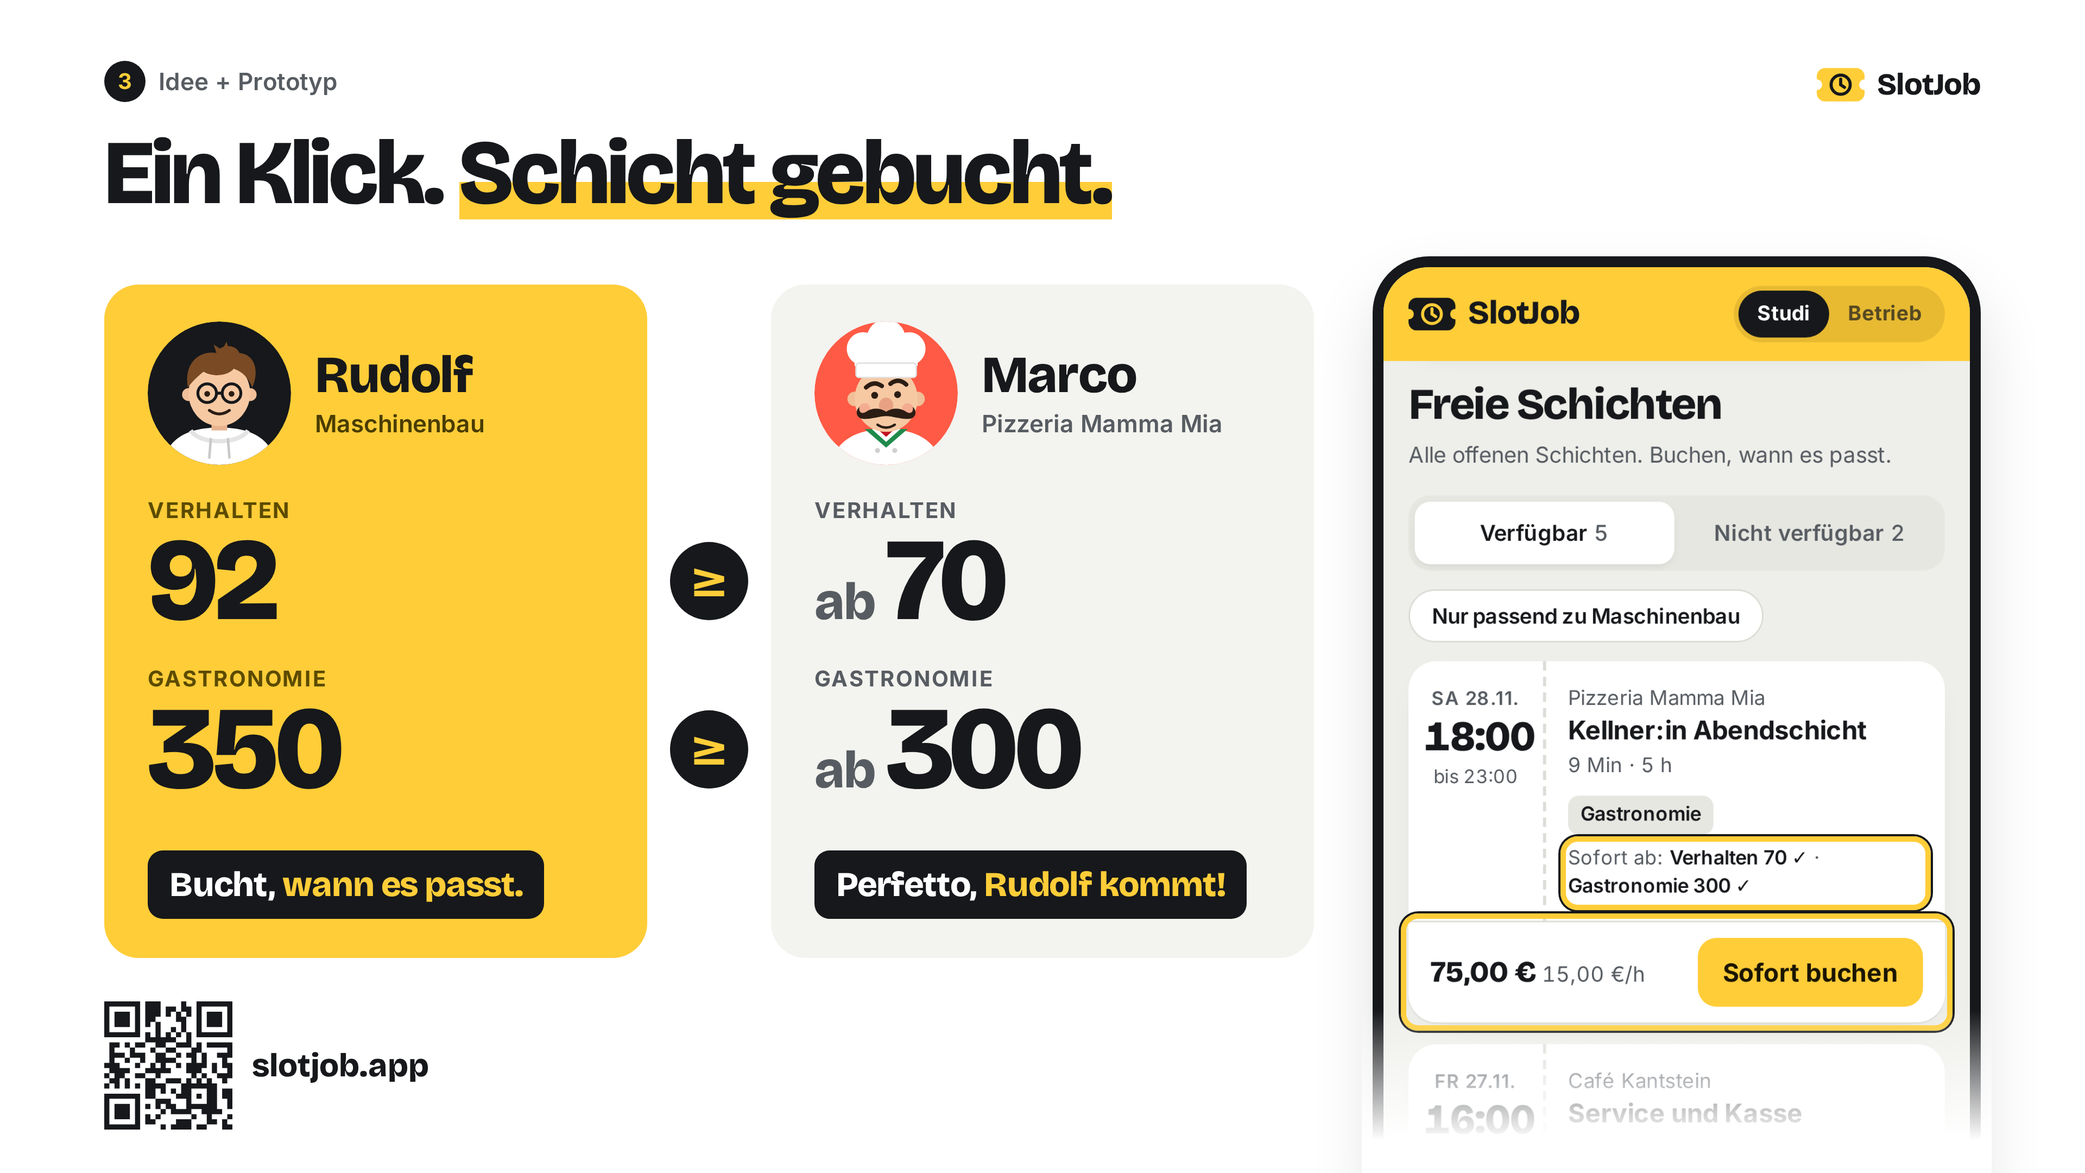
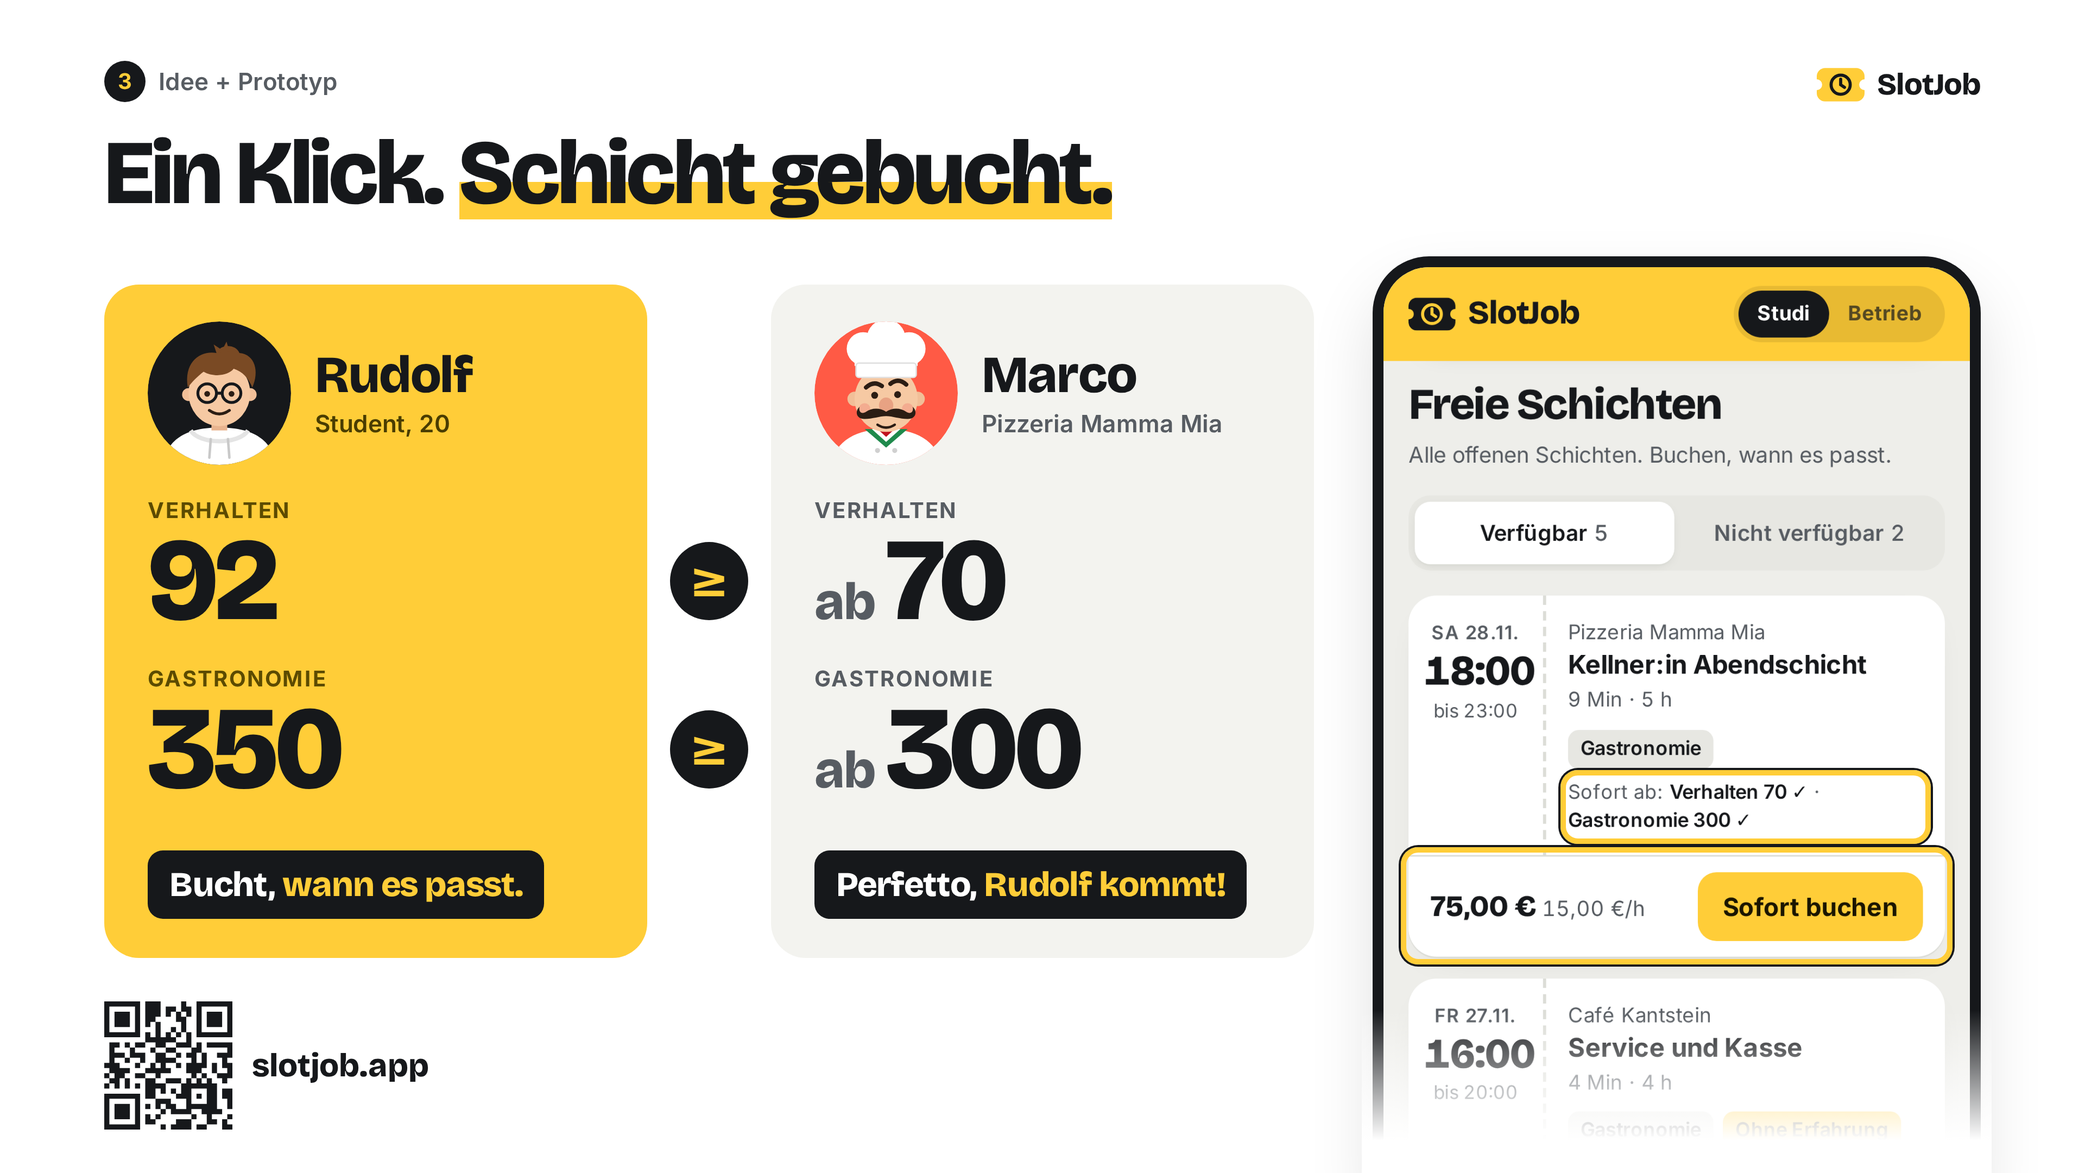
No study field: no onboarding question, no slot label, no filter, no field in the employer form
Filip 27.11.: the study field is removed entirely. "Ich studiere" leads straight to the shifts. Docs, plan and the slide 3 checklist say so; slide 3 shows Rudolf as "Student, 20" and the phone without the filter chip. Demo key slotjob-v9.

Claude-Session: https://claude.ai/code/session_01TtYjNNzjFNGfjoyzmP8vJg

Changed region(s): [[0.6562, 0.4963, 0.9375, 0.9616], [0.1562, 0.3412, 0.2188, 0.3722]]

diff --git a/site/index.html b/site/index.html
@@ -221,9 +221,8 @@ input[type=file]{font-size:13px;max-width:100%}
 </div>
 <script>
 {
-const KEY='slotjob-v8';
+const KEY='slotjob-v9';
 const DAYS=['Mo','Di','Mi','Do','Fr','Sa','So'];
-const FIELDS=['Maschinenbau','Informatik','BWL','Lehramt','Umweltwissenschaften','Anderes'];
 const LIMIT=603;
 const AREAS=[['gastro','Gastronomie'],['handel','Handel und Lager'],['events','Events und Aufbau'],['campus','Campus'],['buero','Büro und IT']];
 const AN=k=>(AREAS.find(a=>a[0]===k)||AREAS[0])[1];
@@ -233,7 +232,7 @@ const RULES={v:[[['Start','80'],['Pünktlich','+2'],['Spontan','+5'],['Krank','0
  q:[[['Arbeitszeugnis','+100'],['Schicht','+10']],[['5 Sterne','+10'],['1–2 Sterne','−10']]]};
 const NOTE={v:'Minuspunkte halbieren sich nach 3 Monaten.',q:'Gleiche Qualifikation zählt einmal. Schichten zählen bis +400.'};
 const rulesBox=t=>`<div class="rules">${RULES[t].map(col=>`<div>${col.map(([l,v])=>`<p><span>${l}</span><b>${v}</b></p>`).join('')}</div>`).join('')}</div><p class="small" style="margin:6px 0 0">${NOTE[t]}</p>`;
-const fresh=()=>({role:null,onb:0,field:'Maschinenbau',noExp:true,tab:'slots',filter:'ok',open:null,roles:[],instant:[],rated:{},cert:null,certRole:'Kellner',certs:{},biz:'Pizzeria Mamma Mia',etab:'mine',
+const fresh=()=>({role:null,onb:0,tab:'slots',filter:'ok',open:null,roles:[],instant:[],rated:{},cert:null,certRole:'Kellner',certs:{},biz:'Pizzeria Mamma Mia',etab:'mine',
  ev:[
   {a:'v',t:'Start',p:80},
   {a:'v',t:'16 × pünktlich',p:32},
@@ -246,13 +245,13 @@ const fresh=()=>({role:null,onb:0,field:'Maschinenbau',noExp:true,tab:'slots',fi
   {a:'handel',t:'2 × 5 Sterne',p:20}
  ],
  slots:[
-  {id:1,emp:'Café Kantstein',title:'Service und Kasse',day:'Fr',date:'27.11.',s:'16:00',e:'20:00',pay:14.5,dist:'4 Min',noExp:true,fields:[],area:'gastro',min:0,minV:70},
-  {id:2,emp:'Pizzeria Mamma Mia',title:'Kellner:in Abendschicht',day:'Sa',date:'28.11.',s:'18:00',e:'23:00',pay:15,dist:'9 Min',noExp:false,fields:[],area:'gastro',min:300,minV:70,eid:102},
-  {id:3,emp:'Getränkemarkt Fass & Co',title:'Lager und Leergut',day:'Sa',date:'28.11.',s:'09:00',e:'13:00',pay:14,dist:'11 Min',noExp:true,fields:[],area:'handel',min:0,minV:70},
-  {id:4,emp:'Lehrstuhl Konstruktion (HiWi)',title:'CAD-Modelle aufbereiten',day:'Mo',date:'30.11.',s:'10:00',e:'14:00',pay:14.2,dist:'Campus',noExp:false,fields:['Maschinenbau'],area:'campus',min:0,minV:80},
-  {id:5,emp:'IT-Service Rechenzentrum',title:'Helpdesk für Erstis',day:'Di',date:'01.12.',s:'12:00',e:'16:00',pay:14.8,dist:'Campus',noExp:false,fields:['Informatik'],area:'buero',min:100,minV:70},
-  {id:6,emp:'Eventhalle Nordufer',title:'Aufbau Konzert',day:'Mi',date:'02.12.',s:'14:00',e:'19:00',pay:15.5,dist:'15 Min',noExp:true,fields:[],area:'events',min:0,minV:95},
-  {id:7,emp:'Buchladen Seitenwind',title:'Inventur',day:'Do',date:'03.12.',s:'17:00',e:'21:00',pay:14,dist:'6 Min',noExp:true,fields:[],area:'handel',min:0,minV:70}
+  {id:1,emp:'Café Kantstein',title:'Service und Kasse',day:'Fr',date:'27.11.',s:'16:00',e:'20:00',pay:14.5,dist:'4 Min',noExp:true,area:'gastro',min:0,minV:70},
+  {id:2,emp:'Pizzeria Mamma Mia',title:'Kellner:in Abendschicht',day:'Sa',date:'28.11.',s:'18:00',e:'23:00',pay:15,dist:'9 Min',noExp:false,area:'gastro',min:300,minV:70,eid:102},
+  {id:3,emp:'Getränkemarkt Fass & Co',title:'Lager und Leergut',day:'Sa',date:'28.11.',s:'09:00',e:'13:00',pay:14,dist:'11 Min',noExp:true,area:'handel',min:0,minV:70},
+  {id:4,emp:'Lehrstuhl Konstruktion (HiWi)',title:'CAD-Modelle aufbereiten',day:'Mo',date:'30.11.',s:'10:00',e:'14:00',pay:14.2,dist:'Campus',noExp:false,area:'campus',min:0,minV:80},
+  {id:5,emp:'IT-Service Rechenzentrum',title:'Helpdesk für Erstis',day:'Di',date:'01.12.',s:'12:00',e:'16:00',pay:14.8,dist:'Campus',noExp:false,area:'buero',min:100,minV:70},
+  {id:6,emp:'Eventhalle Nordufer',title:'Aufbau Konzert',day:'Mi',date:'02.12.',s:'14:00',e:'19:00',pay:15.5,dist:'15 Min',noExp:true,area:'events',min:0,minV:95},
+  {id:7,emp:'Buchladen Seitenwind',title:'Inventur',day:'Do',date:'03.12.',s:'17:00',e:'21:00',pay:14,dist:'6 Min',noExp:true,area:'handel',min:0,minV:70}
  ],
  shifts:[
   {id:'a1',emp:'Café Kantstein',title:'Frühstücksservice',day:'So',date:'29.11.',s:'09:00',e:'13:00',pay:14.5,status:'Gebucht'},
@@ -310,10 +309,6 @@ function onboarding(){
   else if(S.role==='emp') body=`<div class="big">Dein Betrieb</div><p class="sub">So erscheinst du bei den Studis.</p>
    <label for="biz">Name des Betriebs</label><input id="biz" type="text" value="${esc(S.biz)}"><div class="spacer"></div>
    <button class="btn wide" data-act="finish">Los geht's</button>`;
-  else if(st===1) body=`<div class="big">Was studierst du?</div><p class="sub">Damit zeigen wir dir auch Slots, die zu deinem Fach passen.</p>
-   <label for="field">Studiengang</label><select id="field">${FIELDS.map(f=>`<option ${f===S.field?'selected':''}>${f}</option>`).join('')}</select>
-   <label class="check"><input id="noexp" type="checkbox" ${S.noExp?'checked':''}> Ich habe noch keine Joberfahrung</label><div class="spacer"></div>
-   <button class="btn wide" data-act="finish">Schichten zeigen</button>`;
   return `<div class="main"><div class="onb">${st===0?'':bar}${body}${st>0?'<button class="link" data-act="back">Zurück</button>':''}</div></div>`;
 }
 
@@ -327,7 +322,7 @@ function why(x){
 function slotCard(x){
   const w=why(x),booked=S.instant.includes(x.id),h=hrs(x.s,x.e);
   const btn=booked?`<button class="btn done" data-act="instant" data-v="${x.id}">Gebucht ✓</button>`:w?`<button class="btn" disabled>Nicht verfügbar</button>`:`<button class="btn" data-act="instant" data-v="${x.id}">Sofort buchen</button>`;
-  const tags=[`<span class="tag">${AN(x.area)}</span>`,x.fields.includes(S.field)?`<span class="tag">Passt zu ${esc(S.field)}</span>`:x.fields.length?`<span class="tag">${esc(x.fields.join(', '))}</span>`:'',x.min===0?'<span class="tag sun">Ohne Erfahrung</span>':''].join('');
+  const tags=[`<span class="tag">${AN(x.area)}</span>`,x.min===0?'<span class="tag sun">Ohne Erfahrung</span>':''].join('');
   const note=w?`<div class="why">${esc(w[0])}</div>${w[1]?`<div class="ways">${w[1]}</div>`:''}`:booked?'':`<div class="hint">Sofort ab: <span class="ok">Verhalten ${x.minV} ✓</span> · <span class="ok">${AN(x.area)} ${x.min} ✓</span></div>`;
   return `<article class="ticket"><div class="tk-top"><div class="when"><div class="d">${x.day} ${esc(x.date)}</div><div class="t">${esc(x.s)}</div><div class="e">bis ${esc(x.e)}</div></div>
    <div class="what"><div class="emp"><span>${esc(x.emp)}</span></div><h3>${esc(x.title)}</h3><div class="where">${esc(x.dist)} · ${String(h).replace('.',',')} h</div><div class="meta">${tags}</div>${note}</div></div>
@@ -348,13 +343,11 @@ const ROLES=['Kellner','Barista'];
 const FILTERS=[['ok','Verfügbar',x=>!why(x)],['no','Nicht verfügbar',x=>!!why(x)]];
 function slotsView(){
   const cur=FILTERS.find(f=>f[0]===S.filter)||FILTERS[0];
-  // Study subject: a separate filter on the slots that name the student's subject; it is no score input.
-  const fieldOn=!!S.fieldOnly&&S.field!=='Anderes',base=fieldOn?S.slots.filter(x=>x.fields.includes(S.field)):S.slots;
+  const base=S.slots;
   const list=base.filter(cur[2]);
   const f=([k,l,fn])=>`<button class="f ${cur[0]===k?'on':''}" data-act="filter" data-v="${k}" aria-pressed="${cur[0]===k}">${l}<span class="n">${base.filter(fn).length}</span></button>`;
   return `${scoreCard()}<h2>Freie Schichten</h2><p class="sub">Alle offenen Schichten. Buchen, wann es passt.</p>
    <div class="filters" role="group" aria-label="Filter">${FILTERS.map(f).join('')}</div>
-   ${S.field!=='Anderes'?`<button class="chip ${fieldOn?'on':''}" data-act="fieldf" aria-pressed="${fieldOn}">Nur passend zu ${esc(S.field)}</button>`:''}
    ${list.length?list.map(slotCard).join(''):`<div class="empty">${cur[0]==='ok'?'Gerade ist nichts für dich verfügbar.<br><button class="link" data-act="filter" data-v="no">Warum? Nicht verfügbare ansehen</button>':'Alle Slots sind für dich verfügbar.'}</div>`}`;
 }
 
@@ -369,7 +362,7 @@ function shiftsView(){
 
 function profilView(){
   const earned=S.shifts.reduce((a,x)=>a+hrs(x.s,x.e)*x.pay,0),pct=Math.min(100,earned/LIMIT*100);
-  return `<div style="margin-bottom:14px"><div><h2 style="margin:0">Rudolf M.</h2><p class="sub" style="margin:0">${esc(S.field)} · ★ 4,8 aus 19 Schichten</p></div></div>
+  return `<div style="margin-bottom:14px"><div><h2 style="margin:0">Rudolf M.</h2><p class="sub" style="margin:0">★ 4,8 aus 19 Schichten</p></div></div>
   <div class="card"><h3>Minijob-Grenze</h3><div class="row" style="margin-top:6px"><span class="big-num">${eur(earned)}</span><span class="small">von ${LIMIT} € im November</span></div><div class="bar"><i style="width:${pct}%"></i></div><p class="small" style="margin:0">Noch ${eur(Math.max(0,LIMIT-earned))} bis zur Grenze.</p></div>
   <div class="card"><h3>Qualifikationen</h3><div class="meta">${S.roles.length?S.roles.map(r=>`<span class="tag sun">${esc(r)}</span>`).join(''):'<span class="small">Noch keine. Lade unten ein Arbeitszeugnis hoch.</span>'}</div></div>
   <div class="card" id="certcard"><h3>Arbeitszeugnis hochladen</h3><p class="small" style="margin:4px 0 12px">Deckt das Zeugnis eine Rolle ab, gibt es +100 Qualifikation in dieser Rolle. Die gleiche Qualifikation zählt nur einmal.</p>
@@ -405,7 +398,6 @@ function empNew(){
   <label for="na">Rolle</label><select id="na">${AREAS.map(([k,n])=>`<option value="${k}">${n}</option>`).join('')}</select>
   <div class="two"><div><label for="nv">Sofort ab Verhalten</label><input id="nv" type="number" min="0" max="100" step="5" value="70"></div><div><label for="nm">Sofort ab Qualifikation</label><input id="nm" type="number" min="0" max="1000" step="50" value="200"></div></div>
   <p class="small" style="margin:6px 0 0">Qualifikation 0 heißt: auch ohne Erfahrung.</p>
-  <label for="nfd">Passt zu Studiengang</label><select id="nfd"><option value="">Alle</option>${FIELDS.filter(f=>f!=='Anderes').map(f=>`<option>${f}</option>`).join('')}</select>
   <button class="btn wide" style="margin-top:20px" type="submit">Slot veröffentlichen</button></form>`;
 }
 
@@ -429,12 +421,11 @@ const ratedWho=x=>booker(x)?.n;
 root.addEventListener('click',e=>{
   const b=e.target.closest('[data-act]');if(!b)return;
   const v=b.dataset.v,a=b.dataset.act;
-  if(a==='pickrole'){S.role=v;S.onb=1}
+  if(a==='pickrole'){S.role=v;if(v==='emp')S.onb=1;else{S.onb=99;toast('Fertig. Hier sind Schichten für dich.')}}
   else if(a==='back'){S.onb--;if(S.onb===0)S.role=null}
-  else if(a==='finish'){if(S.role==='emp'){const n=document.getElementById('biz').value.trim();if(n)S.biz=n}else{S.field=document.getElementById('field').value;S.noExp=document.getElementById('noexp').checked}S.onb=99;toast(S.role==='emp'?'Fertig. Hier sind deine Slots.':'Fertig. Hier sind Schichten für dich.')}
+  else if(a==='finish'){if(S.role==='emp'){const n=document.getElementById('biz').value.trim();if(n)S.biz=n}S.onb=99;toast(S.role==='emp'?'Fertig. Hier sind deine Slots.':'Fertig. Hier sind Schichten für dich.')}
   else if(a==='tab'){if(S.role==='emp')S.etab=v;else S.tab=v;const m=root.querySelector('.main');if(m)m.scrollTop=0}
   else if(a==='filter'){S.filter=v}
-  else if(a==='fieldf'){S.fieldOnly=!S.fieldOnly}
   else if(a==='instant'){const id=+v;if(S.instant.includes(id)){S.instant=S.instant.filter(x=>x!==id);toast('Buchung storniert')}else{S.instant.push(id);toast('Gebucht. Die Schicht steht unter Meine Schichten.')}}
   else if(a==='scopen'){S.open=S.open===v?null:v}
   else if(a==='rate'){const k=b.dataset.k;if(k[0]==='e'){const x=S.eslots.find(y=>'e'+y.id===k);x.rating=+v;
@@ -461,7 +452,7 @@ root.addEventListener('submit',e=>{
   const t=g('nt').value.trim()||'Schicht',d=g('nd').value,s=g('ns').value||'17:00',en=g('ne').value||'21:00',p=Math.max(13.9,parseFloat(g('np').value)||13.9);
   const id=Date.now(),area=g('na').value,min=Math.max(0,Math.min(1000,parseInt(g('nm').value,10)||0)),minV=Math.max(0,Math.min(100,parseInt(g('nv').value,10)||0));
   S.eslots.unshift({id,title:t,day:d,date:'',s,e:en,pay:p,noExp:min===0,area,min,minV,by:null,rating:0});
-  S.slots.push({id:id+1,emp:S.biz,title:t,day:d,date:'',s,e:en,pay:p,dist:'neu',noExp:min===0,fields:g('nfd').value?[g('nfd').value]:[],area,min,minV,eid:id});
+  S.slots.push({id:id+1,emp:S.biz,title:t,day:d,date:'',s,e:en,pay:p,dist:'neu',noExp:min===0,area,min,minV,eid:id});
   S.etab='mine';save();render();toast('Slot veröffentlicht. Studis sehen ihn ab sofort.');
 });
 render();

diff --git a/docs/kontext.md b/docs/kontext.md
@@ -10,12 +10,12 @@
 
 ## Prototyp heute
 
-### Studi-Ansicht (Rudolf M., Maschinenbau)
+### Studi-Ansicht (Rudolf M.)
 
 - **Slots**
   - Oben "Dein Score" mit zwei Teilen. Verhalten: ein Balken für alle Rollen, 0 bis 100. Qualifikation: 5 Balken, einer je Rolle, 0 bis 1000. Tippen auf einen Balken zeigt, woraus der Wert besteht, und die Punkteregeln in zwei Spalten.
   - Darunter "Freie Schichten": alle offenen Schichten, jederzeit buchbar, sobald beide Schwellen erreicht sind. Es gibt keine festen Tage und keinen Wochenplan.
-  - Filter: "Verfügbar" (beide Schwellen erreicht) und "Nicht verfügbar" (mit Grund, z. B. "Gastronomie 300 nötig, du hast 250"). Darunter der Schalter "Nur passend zu Maschinenbau": zeigt nur Slots, die der Betrieb mit dem eigenen Studiengang markiert hat.
+  - Filter: "Verfügbar" (beide Schwellen erreicht) und "Nicht verfügbar" (mit Grund, z. B. "Gastronomie 300 nötig, du hast 250").
   - Slotkarte: Datum, Uhrzeit, Betrieb, Tätigkeit, Weg, Dauer, Rolle als Tag, Lohn, darunter "Sofort ab: Verhalten 70 ✓ · Gastronomie 300 ✓". Der Knopf:
     - "Sofort buchen", wenn beide Schwellen erreicht sind. Die Schicht steht dann direkt unter Zugesagt.
     - "Nicht verfügbar", wenn eine Schwelle fehlt ("Gastronomie 300 nötig, du hast 250", mit Link "Arbeitszeugnis hochladen").
@@ -33,7 +33,7 @@
 
 - Oben rechts Umschalter "Studi | Betrieb".
 - Farben: Gelb, Weiß, Fast-Schwarz. Nur heller Modus, gelbe Kopfzeile.
-- Start: "Schichten statt Stellen." mit Auswahl "Ich studiere" oder "Ich biete Schichten an".
+- Start: "Schichten statt Stellen." mit Auswahl "Ich studiere" oder "Ich biete Schichten an". "Ich studiere" führt direkt zu den Schichten, ohne weitere Fragen.
 
 ### Demo-Daten
 
@@ -43,7 +43,7 @@
   - Service und Kasse (Gastronomie, Verhalten 70, Qualifikation 0): Sofort buchen.
   - Kellner:in Abendschicht (Gastronomie, 70, 300): nicht verfügbar (250), mit Arbeitszeugnis (350) Sofort buchen.
   - Lager und Leergut (Handel und Lager, 70, 0): Sofort buchen.
-  - CAD-Modelle (Campus, 80, 0, passt zu Maschinenbau): Sofort buchen.
+  - CAD-Modelle (Campus, 80, 0): Sofort buchen.
   - Aufbau Konzert (Events und Aufbau, 95, 0): nicht verfügbar, weil Verhalten 92.
   - Helpdesk (Büro und IT, 70, 100): nicht verfügbar. Inventur (Handel und Lager, 70, 0): Sofort buchen.
 
@@ -55,19 +55,19 @@
 
 ## Technik
 
-- Eine Datei `site/index.html` (HTML, CSS, JavaScript), kein Server. Der Zustand liegt im Browser (localStorage, Schlüssel `slotjob-v8`). "Zurücksetzen" im Profil stellt die Demo-Daten wieder her.
+- Eine Datei `site/index.html` (HTML, CSS, JavaScript), kein Server. Der Zustand liegt im Browser (localStorage, Schlüssel `slotjob-v9`). "Zurücksetzen" im Profil stellt die Demo-Daten wieder her.
 - Repo mit `site/index.html`, `docs/plan.txt`, `docs/kontext.md`, `ideen/`. Deploy mit `python3 deploy.py` auf Cloudflare Pages.
-- Beide Scores werden aus einer Ereignisliste berechnet (Rolle oder Verhalten, Text, Punkte). Verhalten 0 bis 100. Qualifikation 0 bis 1000: gleiche Qualifikation einmal, Schichten höchstens +400. Der Studiengang zählt nicht.
+- Beide Scores werden aus einer Ereignisliste berechnet (Rolle oder Verhalten, Text, Punkte). Verhalten 0 bis 100. Qualifikation 0 bis 1000: gleiche Qualifikation einmal, Schichten höchstens +400.
 
 ## Plan des Teams (docs/plan.txt)
 
 1. **Instant-Zusage** (entschieden 27.11.): Der Betrieb setzt je Slot zwei Schwellen, Verhalten (Standard 70) und Qualifikation in der Rolle. Beide erreicht: sofort buchen. Eine fehlt: nicht verfügbar. Keine Bewerbung. Neue starten mit Verhalten 80 und Qualifikation 0.
 2. **Reputation, zwei Scores** (entschieden 27.11.):
    - Verhalten, einer pro Person, 0 bis 100, Start 80: pünktlich +2, spontan oder On-Duty +5, zu spät −5, Absage unter 24 h −10, gefehlt −30, Krankmeldung 0, Minuspunkte halbieren sich nach 3 Monaten.
-   - Qualifikation je Rolle, 0 bis 1000, Start 0: Arbeitszeugnis +100 für die Rolle, die es abdeckt (gleiche Qualifikation einmal), keine Kurse, Schicht in der Rolle +10 (höchstens +400), 5 Sterne +10, 1 bis 2 Sterne −10. Der Studiengang zählt nicht für den Score.
+   - Qualifikation je Rolle, 0 bis 1000, Start 0: Arbeitszeugnis +100 für die Rolle, die es abdeckt (gleiche Qualifikation einmal), keine Kurse, Schicht in der Rolle +10 (höchstens +400), 5 Sterne +10, 1 bis 2 Sterne −10.
    - Nach der Schicht: "Pünktlich und zuverlässig?" zählt für Verhalten, Sterne für die Arbeit zählen für Qualifikation.
 3. **Rollen (5)**: Gastronomie (fest), Handel und Lager, Events und Aufbau, Campus, Büro und IT (Vorschläge). Kellner und Barista sind Qualifikationen in der Gastronomie.
-4. **Filter**: Verfügbar (Sofort buchen), Nicht verfügbar (mit Grund). Dazu Studiengang als eigener Filter, kein Score (entschieden 27.11.).
+4. **Filter**: Verfügbar (Sofort buchen), Nicht verfügbar (mit Grund). Kein Studiengang, weder im Score noch als Filter (entschieden 27.11.).
 5. **Absagen**: mehr Geld für spontane Schichten (zahlt SlotJob, Absicherung für Betriebe). On-Duty: Leute auf Abruf springen bei Ausfall ein, nur freiwillig (Abruf ist gesetzlich nur mit 4 Tagen Vorlauf verpflichtend, § 12 TzBfG). Entschieden 27.11.: Krankmeldung kostet keine Punkte, wie im normalen Job; SlotJob schreibt die Schicht als Spontan-Schicht mit höherem Lohn neu aus und trägt die Mehrkosten aus der Marge.
 6. **Einarbeitung**: Wiederholungsjobs belohnen, z. B. bessere Chancen beim selben Betrieb.
 7. **Betreuung**: Schichten-Manager bei SlotJob als Ansprechpartner für beide Seiten.
@@ -85,7 +85,6 @@ Gebaut:
 - Zwei Schwellen je Slot, Sofort buchen nur wenn beide erreicht, sonst nicht verfügbar
 - Filter verfügbar / nicht verfügbar mit Grund
 - Arbeitszeugnis +100 Qualifikation in der abgedeckten Rolle, einmal je Qualifikation
-- Studiengang als Label auf dem Slot ("Passt zu Maschinenbau") und Filter "Nur passend zu Maschinenbau"; der Betrieb wählt den Studiengang beim neuen Slot
 - Betrieb bewertet Pünktlichkeit (Verhalten) und Arbeit (Qualifikation)
 - Minijob-Grenze im Profil, Stundensatz im Betriebsprofil
 
